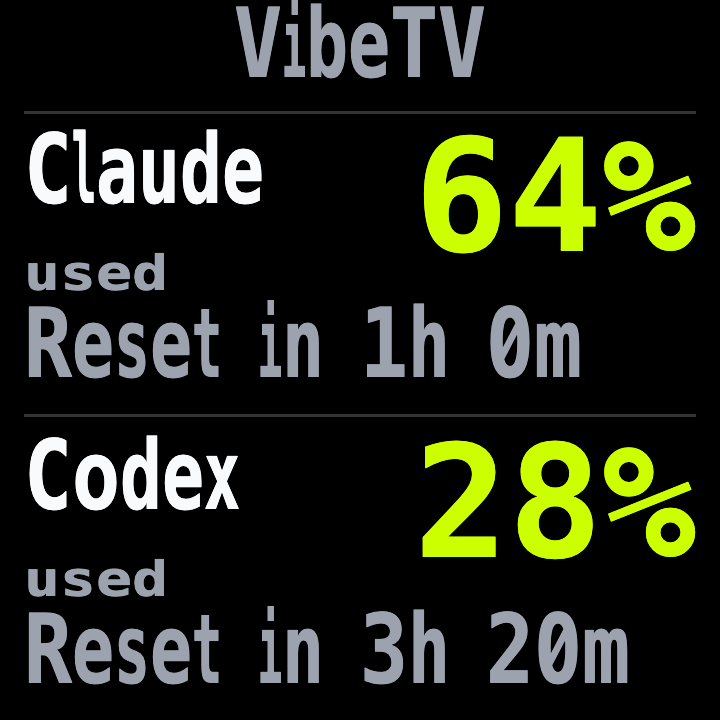
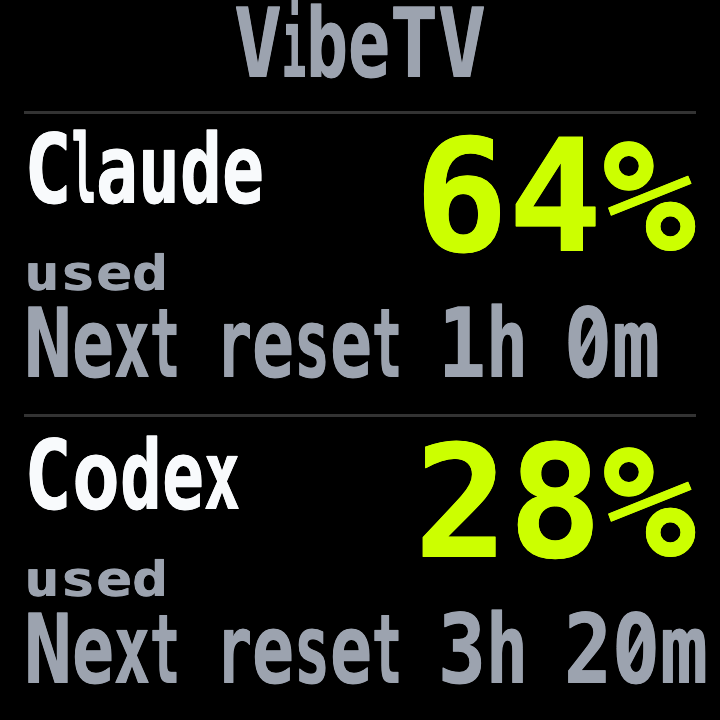
Word Duo's reset line as the provider's next reset (#200)
A provider slot carries the fullest window's percentage and the soonest
window's reset. "Reset in 3h 13m" under a large "39%" read as if those
39 % reset then; "Next reset 3h 13m" is a statement about the provider.

The longer wording needs the lane up to the right screen edge to keep
its size for countdowns such as "6d 23h". Two-digit hours with two-digit
minutes, and two-digit days with two-digit hours, are wider than the
panel at that size and drop one size; the line is centred in its lane
for that case. Version 0.1.1 and rev 3, so a VibeTV that runs rev 2
gets a new device path.

diff --git a/apps/control-center/src/theme-packs/duo-theme.test.ts b/apps/control-center/src/theme-packs/duo-theme.test.ts
@@ -19,7 +19,7 @@ const primitives = (pack.spec?.p || []) as ThemePrimitive[];
 const texts = primitives.filter((p) => p.t === "tx");
 const clock = new Date("2026-10-08T12:00:00Z");
 const claude = { id: "claude", label: "Claude", percent: 64, resetSecs: 8078 };
-const codex = { id: "codex", label: "Codex", percent: 100, resetSecs: 86340 };
+const codex = { id: "codex", label: "Codex", percent: 100, resetSecs: 604740 };
 type Frame = ReturnType<typeof buildFrameData>;
 
 function frame(providerSlots: Array<typeof claude>, extra: Record<string, unknown> = {}) {
@@ -55,15 +55,17 @@ describe("Duo theme pack", () => {
     // The smaller of the two device limits: 2048 bytes inline, 4096 bytes stored.
     expect(Buffer.byteLength(rawSpec)).toBeLessThan(2048);
     expect(manifest).toMatchObject({ usage: "live", assets: [], minFirmware: "1.0.42", requiredCapabilities: ["usage-slots-v1", "provider-slots-v1", "text-valign-v1"] });
-    expect(manifest.themeSpec.path).toMatch(/^\/themes\/u\/duo-2-[0-9a-f]{8}\.json$/);
+    expect(manifest.themeSpec.path).toMatch(/^\/themes\/u\/duo-3-[0-9a-f]{8}\.json$/);
     expect(manifest.themeSpec.bytes).toBe(Buffer.byteLength(rawSpec));
     expect(manifest.themeSpec.sha256).toBe(createHash("sha256").update(rawSpec).digest("hex"));
     expect(pack.specPath).toBe(manifest.themeSpec.path);
   });
 
   it("shows two providers, each with label, percentage, usage mode and reset", () => {
+    // A slot carries the provider's fullest window and its soonest reset, so the
+    // line names the provider's next reset, not the reset of the number above it.
     expect(screen(frame([claude, codex]))).toEqual({
-      lines: ["Codex", "Claude", "64%", "used", "Reset in 2h 14m", "Codex", "100%", "used", "Reset in 23h 59m"],
+      lines: ["Codex", "Claude", "64%", "used", "Next reset 2h 14m", "Codex", "100%", "used", "Next reset 6d 23h"],
       dividers: 2,
     });
     // The lower half is the upper half moved down and bound to the second slot.
@@ -75,11 +77,11 @@ describe("Duo theme pack", () => {
   it("names the usage mode the frame carries and shows the percentages as sent", () => {
     // The Companion turns the slot percentages for "remaining"; the theme must not turn them again.
     const data = frame([{ ...claude, percent: 36 }, { ...codex, percent: 0 }], { usageMode: "remaining" });
-    expect(screen(data).lines).toEqual(["Codex", "Claude", "36%", "remaining", "Reset in 2h 14m", "Codex", "0%", "remaining", "Reset in 23h 59m"]);
+    expect(screen(data).lines).toEqual(["Codex", "Claude", "36%", "remaining", "Next reset 2h 14m", "Codex", "0%", "remaining", "Next reset 6d 23h"]);
   });
 
   it("leaves the lower half empty below its divider with one provider", () => {
-    expect(screen(frame([codex]))).toEqual({ lines: ["Codex", "Codex", "100%", "used", "Reset in 23h 59m"], dividers: 2 });
+    expect(screen(frame([codex]))).toEqual({ lines: ["Codex", "Codex", "100%", "used", "Next reset 6d 23h"], dividers: 2 });
   });
 
   it("shows only the provider line without a provider slot", () => {
@@ -96,9 +98,9 @@ describe("Duo theme pack", () => {
     const slot = (label: string, percent: number, resetSecs: number) => ({ id: label.toLowerCase(), label, percent, resetSecs });
     const frames = [
       frame([claude, codex]),
-      frame([slot("Cursor", 0, 2591940), slot("Copilot", 7, 300)], { usageMode: "remaining", label: "Update available" }),
+      frame([slot("Cursor", 0, 17940), slot("Copilot", 7, 300)], { usageMode: "remaining", label: "Update available" }),
       frame([slot("Gemini", 42, 0), slot("Factory", 99, 59)], { label: "Open VibeTV Mac App" }),
-      frame([slot("OpenRouter", 100, 8078), slot("Antigravity", 100, 8078)], { usageMode: "remaining" }),
+      frame([slot("OpenRouter", 100, 86340), slot("Antigravity", 100, 2591940)], { usageMode: "remaining" }),
     ];
     const sizes = new Map<string, number[]>();
     for (const data of frames) {
@@ -108,10 +110,12 @@ describe("Duo theme pack", () => {
         sizes.set(value, [size, p.s!]);
       }
     }
-    // Only the long update notice and long provider names drop a size.
+    // Only the long update notice, long provider names and the two widest countdowns drop a
+    // size: two-digit hours with two-digit minutes need 244 px at full size, two-digit days
+    // with two-digit hours 242 px, both more than the panel has.
     const shrunk = [...sizes].filter(([, [size, full]]) => size < full).map(([value]) => value);
-    expect(shrunk.sort()).toEqual(["Antigravity", "Open VibeTV Mac App", "OpenRouter"]);
-    for (const value of ["Update available", "Copilot", "Factory", "0%", "100%", "remaining", "Reset in 23h 59m", "Reset in 29d 23h", "Reset unavailable"]) {
+    expect(shrunk.sort()).toEqual(["Antigravity", "Next reset 23h 59m", "Next reset 29d 23h", "Open VibeTV Mac App", "OpenRouter"]);
+    for (const value of ["Update available", "Copilot", "Factory", "0%", "100%", "remaining", "Next reset 4h 59m", "Next reset 6d 23h", "Reset unavailable"]) {
       expect(sizes.has(value), value).toBe(true);
     }
   });
@@ -121,6 +125,7 @@ describe("Duo theme pack", () => {
       // The firmware clips a line to its font height plus four pixels.
       const height = { 1: 8, 2: 16, 4: 26 }[p.f ?? 1]! * p.s! + 4;
       expect(p.y! + Math.max(p.h ?? 0, height), `${p.v ?? p.b} bottom`).toBeLessThanOrEqual(240);
+      expect(p.x! + p.w!, `${p.v ?? p.b} right edge`).toBeLessThanOrEqual(240);
     }
     const markup = render(THEME_CATALOG_PREVIEW_FRAME);
     expect(markup).toContain('viewBox="0 0 240 240"');

diff --git a/docs/assets/README.md b/docs/assets/README.md
@@ -15,7 +15,7 @@ These are static example states, not live device readings.
 | --- | --- | --- | --- |
 | [Claude Creature](vibetv-theme-claude-creature.png) | [render pack](../../dist/theme-packs/render/claude-creature/claude--7-4963df.json) | `/themes/u/claude--7-4963df.json` | `4963dfb7` |
 | [Clippy](vibetv-theme-clippy.png) | [render pack](../../dist/theme-packs/render/clippy/clippy-5-4f3746.json) | `/themes/u/clippy-5-4f3746.json` | `4f37467f` |
-| [Duo](vibetv-theme-duo.png) | [render pack](../../dist/theme-packs/render/duo/duo-2-9052dec6.json) | `/themes/u/duo-2-9052dec6.json` | `c778dc4f` |
+| [Duo](vibetv-theme-duo.png) | [render pack](../../dist/theme-packs/render/duo/duo-3-f542242a.json) | `/themes/u/duo-3-f542242a.json` | `5a870fb6` |
 | [Mini Classic](vibetv-theme-mini-classic.png) | [render pack](../../dist/theme-packs/render/mini-classic/mini-cl-7-c7cbf4.json) | `/themes/u/mini-cl-7-c7cbf4.json` | `c7cbf455` |
 | [Night Clock](vibetv-screensaver-night-clock.png) | [render pack](../../dist/theme-packs/render/night-clock/nc-3-e18e4217.json) | `/themes/s/nc-3-e18e4217.json` | `7c0481b8` |
 | [Pixel Battery](vibetv-theme-pixel-battery.png) | [render pack](../../dist/theme-packs/render/pixel-battery/pba-16-f46829.json) | `/themes/u/pba-16-f46829.json` | `6c0dcf25` |
